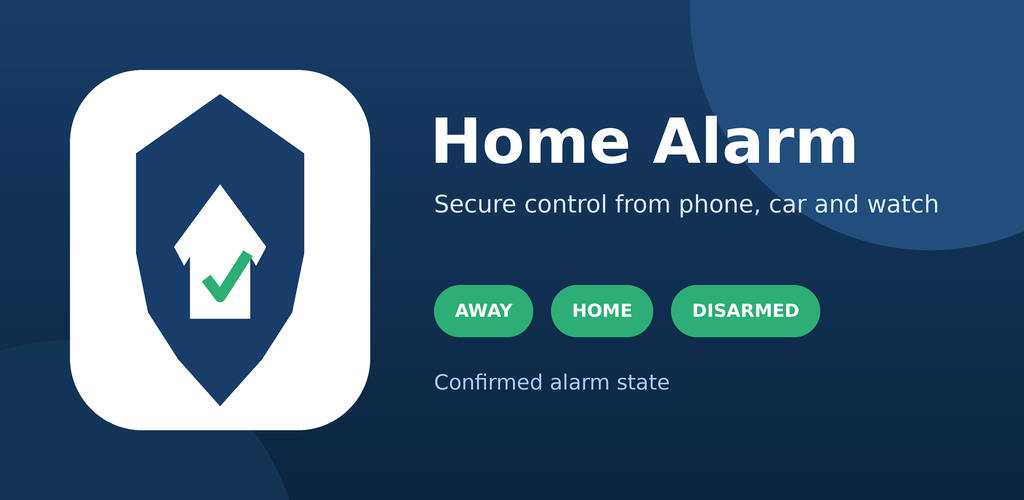
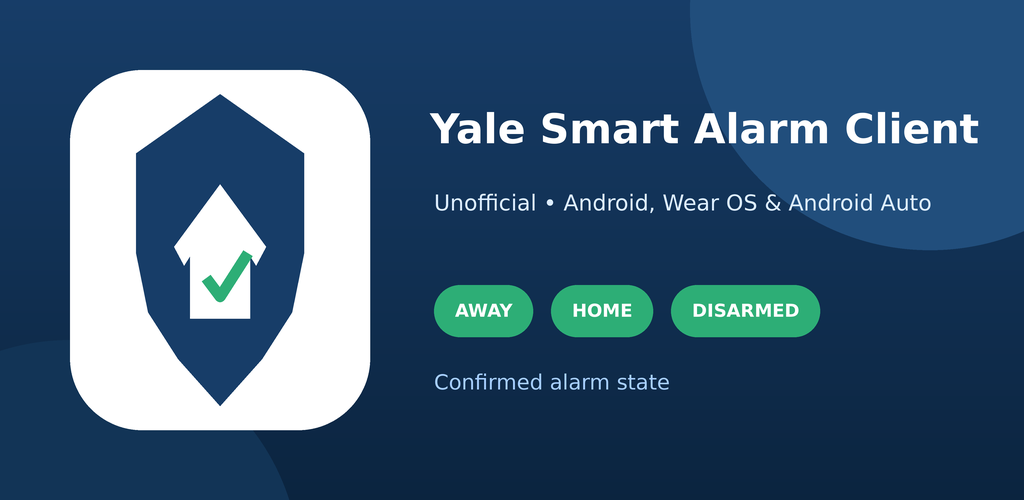
docs: finish public repository branding

Changed region(s): [[0.4062, 0.21, 0.9688, 0.33], [0.4062, 0.39, 0.9375, 0.45]]

diff --git a/play-assets/generate_play_assets.py b/play-assets/generate_play_assets.py
@@ -1,5 +1,5 @@
 #!/usr/bin/env python3
-"""Generate deterministic Google Play artwork for Home Alarm."""
+"""Generate Yale Smart Alarm Client artwork; retain the navy/green shield layout."""
 
 from pathlib import Path
 
@@ -117,11 +117,15 @@ def make_feature_graphic() -> None:
     )
     shield_mark(draw, (120, 94, 320, 406))
 
-    draw.text((430 * SCALE, 105 * SCALE), "Home Alarm", font=font(62, bold=True), fill=WHITE)
+    title = "Yale Smart Alarm Client"
+    title_size = 62
+    while draw.textlength(title, font=font(title_size, bold=True)) > 550 * SCALE:
+        title_size -= 1
+    draw.text((430 * SCALE, 105 * SCALE), title, font=font(title_size, bold=True), fill=WHITE)
     draw.text(
         (434 * SCALE, 190 * SCALE),
-        "Secure control from phone, car and watch",
-        font=font(24),
+        "Unofficial • Android, Wear OS & Android Auto",
+        font=font(22),
         fill=PALE_BLUE,
     )
 
